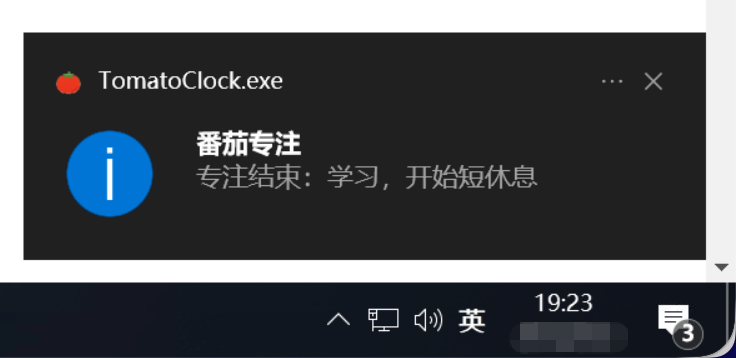
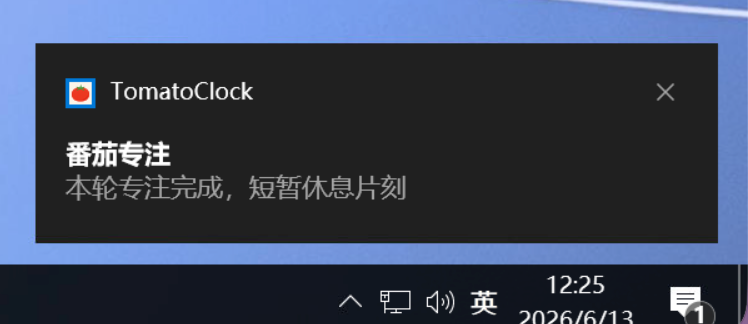
feat(ui, windows): 添加托盘弹窗自动隐藏功能，修复Windows通知控制台闪屏问题
- 升级项目版本至2.2.0
- 更新依赖锁文件uv.lock
- 修复Windows系统下发送通知时弹出控制台窗口的问题
- 为托盘弹窗添加自动隐藏逻辑，点击外部或应用失焦时自动关闭
- 更新文档截图end-notify-windows.png

diff --git a/src/ui/tray_popup.py b/src/ui/tray_popup.py
@@ -4,6 +4,7 @@ from typing import Callable
 
 from PyQt6.QtCore import (
     QEasingCurve,
+    QEvent,
     QPoint,
     QPointF,
     QPropertyAnimation,
@@ -12,7 +13,8 @@ from PyQt6.QtCore import (
     Qt,
 )
 from PyQt6.QtGui import QColor, QIcon, QLinearGradient, QPainter, QPainterPath, QPen, QRegion
-from PyQt6.QtWidgets import QHBoxLayout, QLabel, QPushButton, QStyle, QVBoxLayout, QWidget
+from PyQt6.QtGui import QMouseEvent
+from PyQt6.QtWidgets import QApplication, QHBoxLayout, QLabel, QPushButton, QStyle, QVBoxLayout, QWidget
 
 from src.ui.ui_theme import ACCENT, BG, BORDER, TEXT, apply_fixed_policy, rgba, type_colors
 
@@ -37,6 +39,7 @@ class TrayPopup(QWidget):
         self._corner_radius = 18
         self._anim: QPropertyAnimation | None = None
         self._hiding = False
+        self._event_filter_installed = False
         self._update_mask()
 
         root = QVBoxLayout(self)
@@ -110,6 +113,19 @@ class TrayPopup(QWidget):
         self.hide_animated()
         super().focusOutEvent(event)
 
+    def eventFilter(self, watched, event) -> bool:
+        if not self.isVisible():
+            return super().eventFilter(watched, event)
+        if event.type() == QEvent.Type.ApplicationDeactivate:
+            self.hide_animated()
+            return False
+        if event.type() == QEvent.Type.MouseButtonPress and isinstance(event, QMouseEvent):
+            global_pos = event.globalPosition().toPoint()
+            local_pos = self.mapFromGlobal(global_pos)
+            if not self.rect().contains(local_pos):
+                self.hide_animated()
+        return super().eventFilter(watched, event)
+
     def resizeEvent(self, event) -> None:
         self._update_mask()
         super().resizeEvent(event)
@@ -117,6 +133,7 @@ class TrayPopup(QWidget):
     def show_at(self, pos: QPoint) -> None:
         self._hiding = False
         self._stop_anim()
+        self._ensure_app_event_filter()
         end_pos = QPoint(int(pos.x()), int(pos.y()))
         start_pos = QPoint(end_pos.x(), end_pos.y() + 10)
         self.move(start_pos)
@@ -232,6 +249,13 @@ class TrayPopup(QWidget):
             self._anim.stop()
             self._anim.deleteLater()
             self._anim = None
+
+    def _ensure_app_event_filter(self) -> None:
+        app = QApplication.instance()
+        if app is None or self._event_filter_installed:
+            return
+        app.installEventFilter(self)
+        self._event_filter_installed = True
 
     def _clear_anim(self) -> None:
         sender = self.sender()

diff --git a/src/utils/windows_notification.py b/src/utils/windows_notification.py
@@ -52,10 +52,16 @@ $toast = [Windows.UI.Notifications.ToastNotification]::new($doc)
 $notifier = [Windows.UI.Notifications.ToastNotificationManager]::CreateToastNotifier('{WINDOWS_APP_USER_MODEL_ID}')
 $notifier.Show($toast)
 """
-    result = subprocess.run(
-        [powershell, "-NoProfile", "-NonInteractive", "-ExecutionPolicy", "Bypass", "-Command", script],
-        check=False,
-        stdout=subprocess.DEVNULL,
-        stderr=subprocess.DEVNULL,
-    )
+    popen_kwargs: dict = {
+        "args": [powershell, "-NoProfile", "-NonInteractive", "-ExecutionPolicy", "Bypass", "-Command", script],
+        "check": False,
+        "stdout": subprocess.DEVNULL,
+        "stderr": subprocess.DEVNULL,
+    }
+    if sys.platform == "win32":
+        startupinfo = subprocess.STARTUPINFO()
+        startupinfo.dwFlags |= subprocess.STARTF_USESHOWWINDOW
+        popen_kwargs["startupinfo"] = startupinfo
+        popen_kwargs["creationflags"] = subprocess.CREATE_NO_WINDOW
+    result = subprocess.run(**popen_kwargs)
     return result.returncode == 0